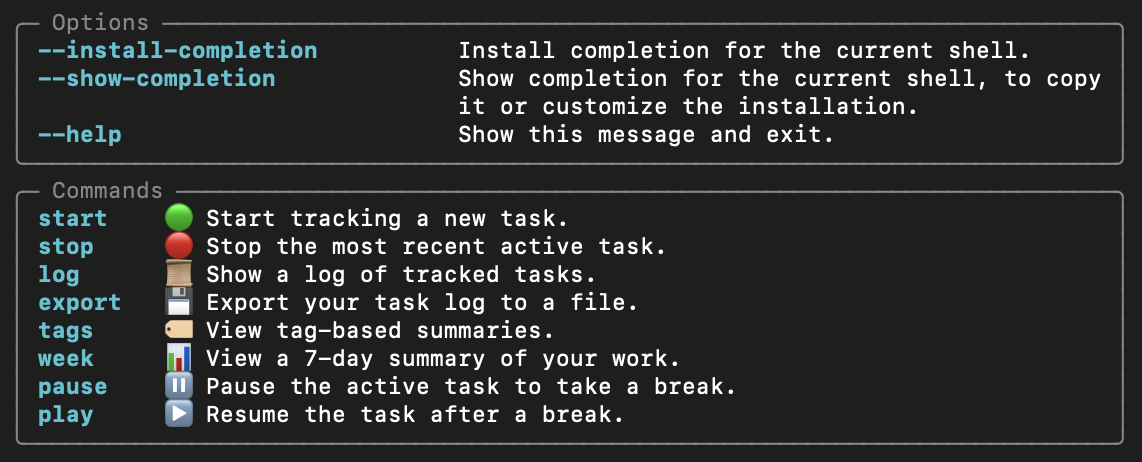
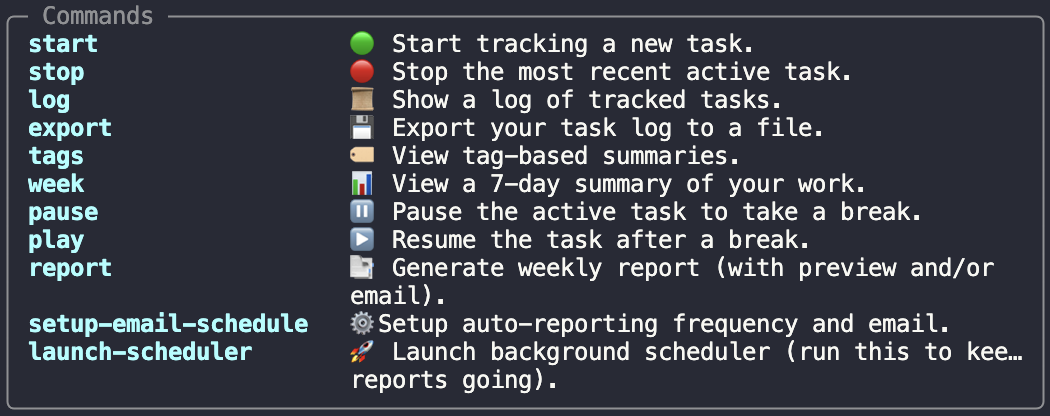
Fixed ReadME

Changed region(s): [[0.0, 0.0, 1.0, 1.0]]

diff --git a/chronotrack/cli.py b/chronotrack/cli.py
@@ -303,10 +303,6 @@ def launch_scheduler():
 
 
 
-
-
-
-
 # ------------------------------------------------------------------
 
 if __name__ == "__main__":

diff --git a/README.md b/README.md
@@ -108,6 +108,18 @@ chronotrack log today
 
 > **⚠ WARNING: Always stop your current session before starting a new one. Running multiple active sessions simultaneously can lead to data corruption or inaccurate time tracking.**
 
+### 6. 📊 Setup HTML Github Like & Email Report:
+
+```bash
+chronotrack report
+```
+
+```bash
+chronotrack setup-email-schedule
+```
+
+> **⚠ WARNING: Make Sure You Have A Dedicated Domain inserted in email_sender.py and your specific API key in .env file inside your python package.**
+
 ---
 
 ## 💻 Command Reference
@@ -217,6 +229,99 @@ chronotrack week --compare last   # Compare with previous week
 > **💡 BEST PRACTICE: Review your weekly reports every Friday to identify productivity patterns and adjust your work habits for the following week.**
 
 ---
+
+
+## 📬 Email Reports with Custom Domain (Resend Setup)
+
+ChronoTrack allows you to **automatically send weekly productivity reports** via email using [Resend](https://resend.com). To do this properly and avoid spam issues, you'll need to verify your own domain.
+
+![Report Example](images/htmlreport.png)
+
+
+---
+
+### ✅ Step 1: Set Up Your Domain on Resend
+
+1. Go to [resend.com](https://resend.com) and sign up
+2. Click on **"Domains"** → **"Add Domain"**
+3. Enter your domain (e.g., `yourdomain.com`)
+4. Add the DNS records (SPF, DKIM, Return-Path) to your domain’s registrar
+5. Wait for the domain to be **verified** by Resend
+
+---
+
+### 🔑 Step 2: Generate API Key
+
+1. Go to Resend → **"API Keys"**
+2. Click **"Create API Key"**
+3. Copy and save this key securely
+
+---
+
+### ⚙ Step 3: Configure Environment Variables
+
+Create a `.env` file in your project root:
+
+```env
+RESEND_API_KEY=your-resend-api-key
+SENDER_EMAIL=yourname@yourdomain.com
+```
+
+> Your `SENDER_EMAIL` must match the verified domain.
+
+---
+
+### 📤 Step 4: Send a Report via CLI
+
+You can generate and send your weekly report with:
+
+```bash
+chronotrack report --email yourname@yourdomain.com 
+```
+
+Or You Can Preview in Web
+
+```bash
+chronotrack report --preview 
+```
+
+This will:
+- Build a complete HTML report of the past week
+- Open it in your browser
+- Send it to the specified email
+
+---
+
+### 🔁 Step 5: Enable Automated Weekly Reports
+
+Run the guided setup:
+
+```bash
+chronotrack set_schedule
+```
+
+You’ll be asked:
+
+```
+📬 Enter the email to receive reports:
+⏳ How often should reports be sent (in days)?
+```
+
+This creates a `user_preferences.json` file, and you can then schedule the following script to run daily:
+
+```bash
+python chronotrack_scheduled_runner.py
+```
+
+Use `crontab -e` or macOS `launchd` to schedule it.
+
+---
+
+> 💡 **Note**: You must keep the `.env` file available for environment access during scheduled execution.
+
+
+
+
 
 ## 💾 Data Management
 
@@ -368,6 +473,8 @@ chronotrack/
 > alias ctr="chronotrack play"  # resume
 > alias cte="chronotrack stop"  # end
 > alias ctl="chronotrack log today"
+> alias ctl="chronotrack report --preview"
+> alias ctl="chronotrack report --email <yourmail>"
 > ```
 
 ---
